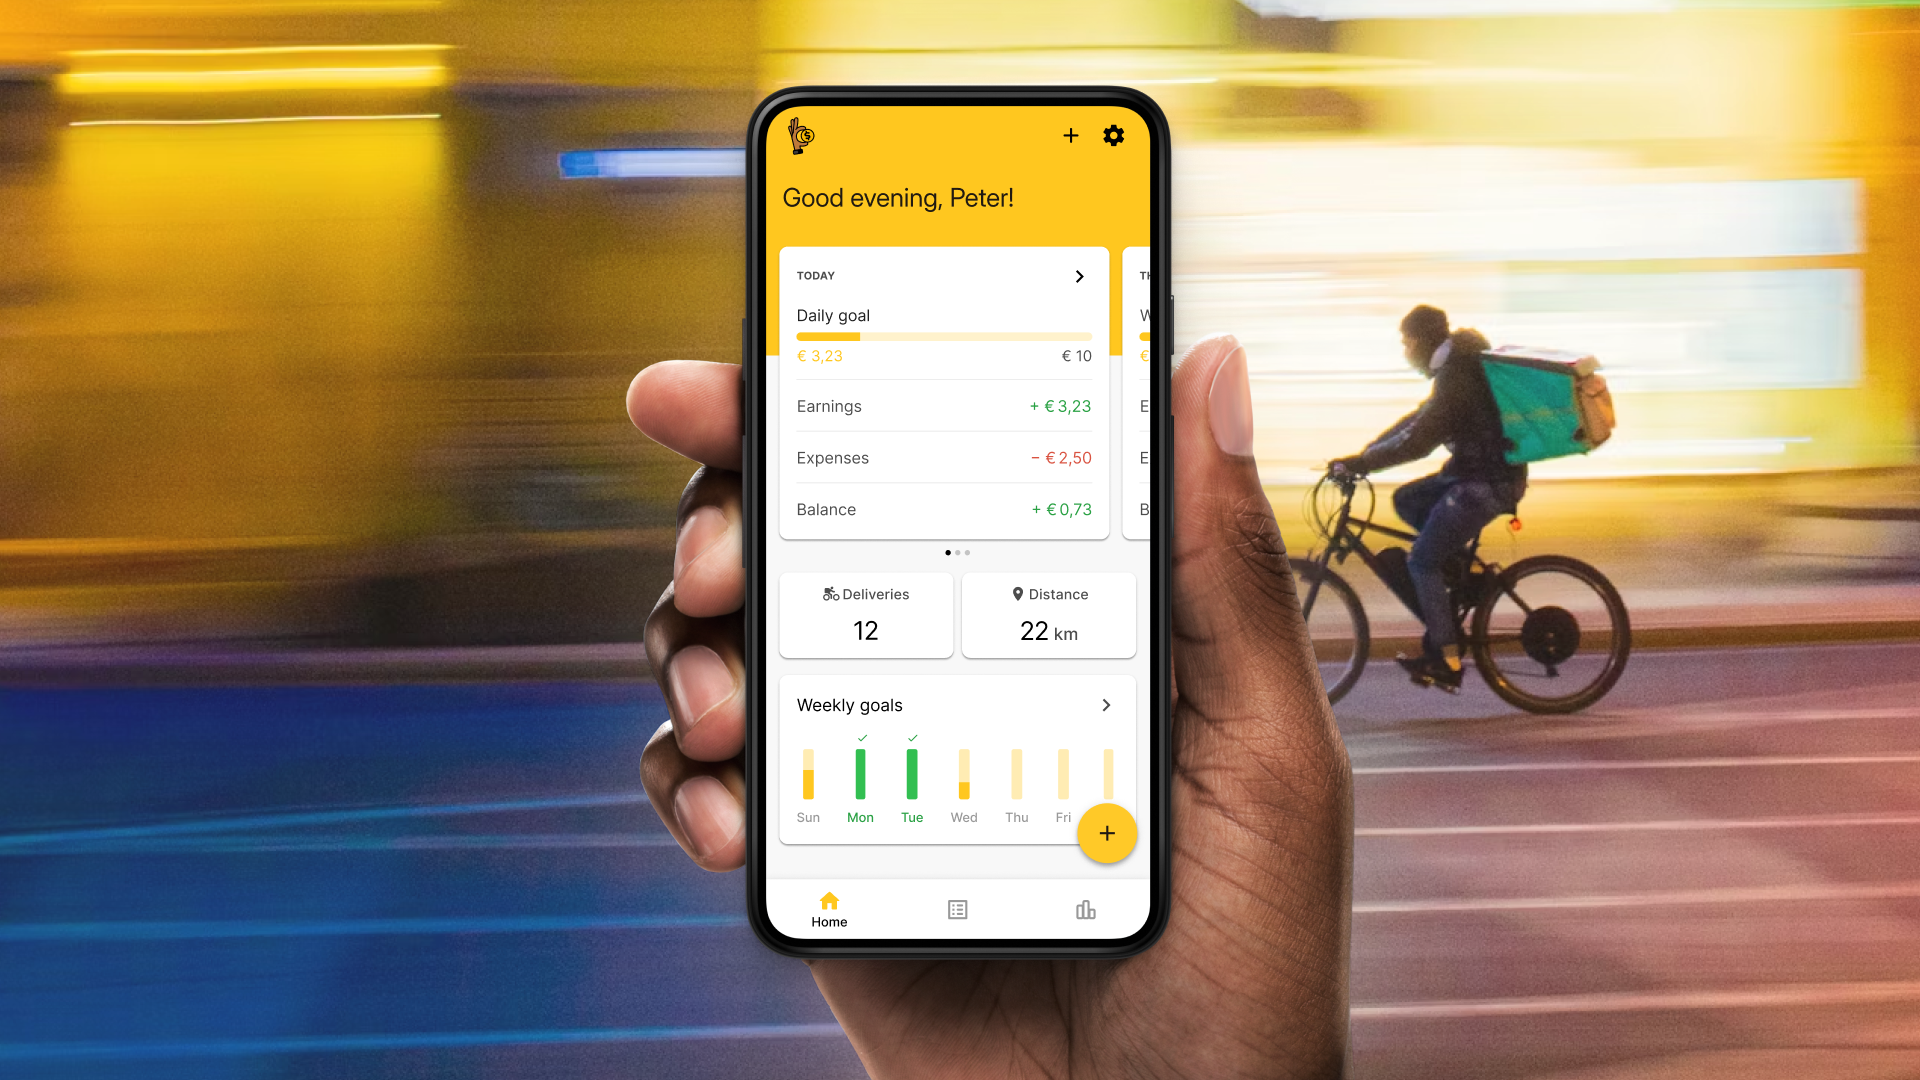
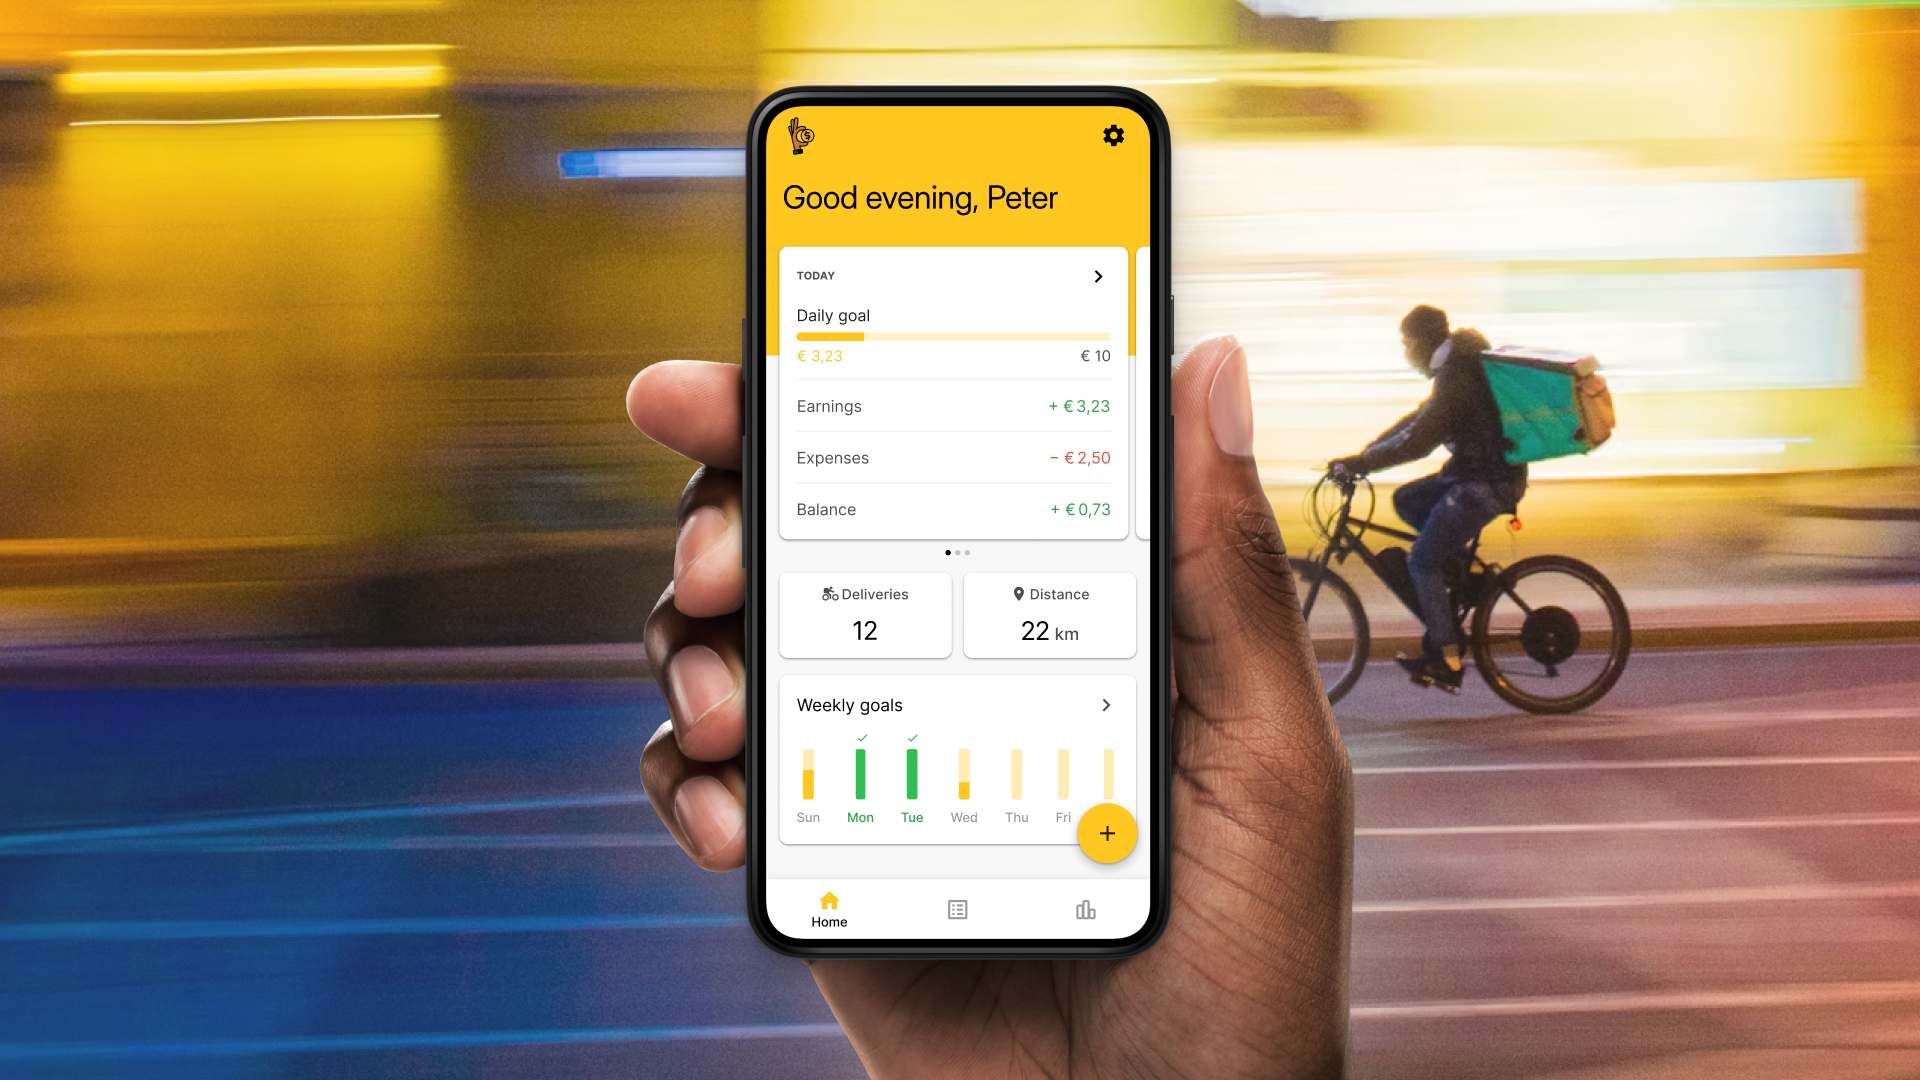
More improvements to Meu Corre

diff --git a/src/pages/meu-corre/index.md b/src/pages/meu-corre/index.md
@@ -6,7 +6,7 @@ lastUpdated: "2025-02"
 title: "Meu Corre"
 minibio: "Bootstrapping a personal financial management app for delivery workers."
 description: "\"My Gig\" is an app designed to support delivery workers in becoming financially aware during their often precarious daily work routine. By fostering financial awareness, the app not only supports individual organization but also serves as a powerful advocacy tool by generating unprecedented data to inform the fight for workers' rights in Brazil."
-color: '#F7B700'
+color: '#F2AA00'
 tags: ['design','product management','research','entrepreneur']
 team: "Igor Dalla Vecchia (researcher, geographer)・Henrique Nievinski (designer)・Caroline Jacobi (social media)・Gabriela Hermann (institutional relations)・Gabriela Pessoa (researcher)・Daniel Dias (developer)・Daniel Brito (data scientist)"
 cover: './cover.png'
@@ -18,15 +18,15 @@ liveLink: 'https://play.google.com/store/apps/details?id=br.com.meucorre'
  
 # Overview
 
-[Meu Corre](https://meucorre.com.br/) ("My Gig") is a social impact entrepreneurship project I co-founded with Igor Dalla Vecchia, a PhD candidate studying on the relationship of Brazilian courier workers with platforms. I was the responsible for everything concerning the product, from Discovery, Strategy and Research to UX/UI Design and major technical decisions.
+[Meu Corre](https://meucorre.com.br/) ("My Gig") is a social impact entrepreneurship project I co-founded with Igor Dalla Vecchia, a PhD candidate studying on the relationship of Brazilian courier workers with platforms. For over 4 years I led Product, contributing from Discovery, Strategy and Research to UX/UI Design and major technical decisions.
 
-We successfully got funded with more than R$ 200k (~€33k) by FAPERJ, CNPq, and Fundo Brasil, important Brazilian research institutions, and gained access to 2 years of mentorship and workshops on Business and Product Management. This allowed us to successfully launch the app on Google Play in April/2024 and we have been iterating on it with user feedbacks and planning on next steps.
+We successfully got funded with more than R$ 200k (~€33k) by FAPERJ, CNPq, and Fundo Brasil, important Brazilian research institutions, and gained access to 2 years of mentorship and workshops on Business and Product Management. This allowed us to successfully launch the app on Google Play in April/2024 and we have been iterating on it with user feedbacks while planning on next steps.
 
 <!-- The team behind Meu Corre consisted of various contributors with diverse expertise, including designers, developers, legal experts, and communication specialists. Special mention goes to delivery workers themselves, who participated in interviews and tests to help shape the app. -->
  
 ```grid|1 
 ![](./rafael.jpg "Rafael de Melo was one of the first delivery workers we got close to and was a key partner during the project. Photo by Caroline Jacobi.") 
-```   
+```
 
 Working on Meu Corre was one of those projects that really stuck with me. It pushed me to step out of my bubble, partner with so many different people, listen without judgment, and rethink what really impactful "solutions" actually look like. 
 
@@ -160,10 +160,10 @@ When building the foundations for typography, color palette and visual identity,
 
 <!-- algo de design system -->
 
+ 
+## Teaching the user on the go
 
-## Empty states 
-
-A special attention was given to the first experience of the user with the app. Instead of the regular carousel kind of onboarding, which we think ours users would most likely just skip, we gave extra though to the empty states. Some of our features, while common in the world of financial management apps, they can be very new to our audience.
+A special attention was given to the first experience of the user with the app. Instead of the regular carousel kind of onboarding, which we think ours users with their rushed lives would most likely just skip, we gave extra though to the empty states. Some of our features, while common in the world of financial management apps, they can be very new to our audience.
 
 <jumbo> 
     <img src="./emptystates.png"/>
@@ -208,12 +208,12 @@ From our learnings from research, we knew we had to be light on the metrics dash
     <img src="./metrics.png"/>
 </jumbo>
 
-
+<!-- 
 The final screens and features can be seen below in these promotional assets designed for our [Google Play page](https://play.google.com/store/apps/details?id=br.com.meucorre):
 
 <jumbo> 
     <img src="./googleplay.png"/>
-</jumbo>
+</jumbo> -->
 
 <!-- <jumbo>
     <img src="./googleplay1.png"/> 
@@ -223,13 +223,39 @@ The final screens and features can be seen below in these promotional assets des
 </jumbo> -->
 
 
+<!-- ## Hight impact/effort features 
 
-## The launch
+Apart from iterating on the core flows, after the launch we started seeking funding to implement some new features that were left out of the MVP implementation. These were features classified as of high impact but also high effort, so it was strategic the we'd leave it to a second round. -->
+ 
+<!-- <jumbo>
+    <img src="./newfeatures.png"/>
+</jumbo>  -->
+   
+
+## Hustle tracker  
+
+Another solution for automatizing the input of data into the app, the geotracking feature tracks the users' daily rides and automatically identifies the wasted idle time. This allows users to gain a clearer picture of how much time is spent actively working versus waiting, something that we heard is a big pain for them. On the platform side, the anonymized data we collect about their movement in the city provides invaluable insights for advocacy agents and policy makers.
+
+<jumbo>  
+    <img src="./hustletracker.png"/>
+</jumbo> 
+
+
+## Platforms integrations
+
+Automatically import rides' data from different delivery platforms. A highly requested feature since the first research, this feature proved to be way too costly for our MVP, but after the launch we'll seek funding to implement it.
+
+```grid|1
+![](./connect.png)
+```
+
+
+# The launch
 
 After a [way too] long development phase where we faced thousands of issues, technical challenges and scope cutting, this MVP was successfully launched to the general public with zero known bugs on April of 2024 with several live events we coordinated with partner institutions as well as influential workers on YouTube.
 
 ```grid|1
-![](./live.png "There were in total 4 live events we held on YouTube to promote the app.")
+![](./live.png)
 ```  
 
 I've also helped design our first social media posts, which is always out of my comfort zone, but necessary.
@@ -244,27 +270,8 @@ I've also helped design our first social media posts, which is always out of my 
 * Indicator Calculation: Automatic calculation of key indicators such as earnings per hour and per distance.
 * Data Export: The ability to download personal data in spreadsheet format.
 * Free Access: The app is and will remain free for all users. -->
+ 
 
-
-# Next Steps
-
-Since June/2024 I've stepped down from the team to focus on other projects, but I still provide counseling, discuss strategy and contribute on big decisions. Here are the main areas the project has been evolving since the launch and plans to continue in the near future:
-
-* **Iterating on core features**: Incorporate feedback from users who are using the tool in their real lives to make it more useful and efficient for the core Jobs-To-Be-Dones. 
-* **Data analysis and reports**: With more and more users recording their earnings and expenses in the app we'll start reaching statistical relevance so we can analyze that data and provide a vast diversity of reports and insights to different audiences, from the workers themselves to researchers and advocacy institutions.
-<!-- * **Doubledown on engagement**: There are lots of opportunities to help user build the positive habits of financial management into their daily lives, such as leveraging more push notifications, emails and nudges inside the app. -->
-<!-- * **Advanced features**: Invest in features of high impact and high effort that were left out of the MVP, such as Automatic Earnings Sync and Geolocation Tracking. -->
-* **New audiences & partnerships**: Stakeholders have shown interest in investing to expand the tool to new countries and even other gig workers such as Uber drivers. Initial research has shown that could be done without having to change too much the current experience.
-<!-- * **New partnerships**: Keep seeking additional funding and partnerships to sustain and develop the platform further. -->
-
-## Hight impact/effort features
-
-Apart from iterating on the core flows, after the launch we started seeking funding to implement some new features that were left out of the MVP implementation. These were features classified as of high impact but also high effort, so it was strategic the we'd leave it to a second round. Some of these are the Hustle Tracker and the Platform Autosync.
-
-
-<jumbo>
-    <img src="./newfeatures.png"/>
-</jumbo> 
 
  
 <!-- ## The advocacy flywheel
@@ -290,13 +297,33 @@ Here's a summary of the amazing results we've already achieved since the launch 
     }'>
 </results-banner>
 
-Also we've been collecting amazing testimonials of people who has been using the app and expressing how it impacted their lives:
 
-<quote author="Anonymous user" context="Google Play review">Super cool app. I use it daily and I have to admit that the app is amazing. It meets all my needs from my work.</quote> 
+## Reception
+
+We've been collecting amazing testimonials of people who has been using the app and expressing how it impacted their lives:
 
 <quote author="Rogerio Alcir" context="Received via social media" >I thank you for making available an app that helps us so much, what I used to do in spreadsheets, was way more complex, today I do my organization in the app. Thank you very much for helping.</quote> 
 
 <quote author="Luiz Henrique" context="Google Play review">Excellent app, it can control rides very well. Weeks, months, days... very good app without bugs. Excellent.</quote> 
+ 
+<quote author="Anonymous user" context="Google Play review">Super cool app. I use it daily and I have to admit that the app is amazing. It meets all my needs from my work.</quote> 
+
+The project has also been highlighted in various articles in the media, including important outlets in the country.
+
+<jumbo>  
+    <img src="./media.png"/>
+</jumbo>
+ 
+   
+<!-- # Next Steps
+
+Since June/2024 I've stepped down from the team to focus on other projects, but I still provide counseling, discuss strategy and contribute on big decisions. Here are the main areas the project has been evolving since the launch and plans to continue in the near future:
+
+* **Iterating on core features**: Incorporate feedback from users who are using the tool in their real lives to make it more useful and efficient for the core Jobs-To-Be-Dones. 
+* **Data analysis and reports**: With more and more users recording their earnings and expenses in the app we'll start reaching statistical relevance so we can analyze that data and provide a vast diversity of reports and insights to different audiences, from the workers themselves to researchers and advocacy institutions.
+* **Doubledown on engagement**: There are lots of opportunities to help user build the positive habits of financial management into their daily lives, such as leveraging more push notifications, emails and nudges inside the app.
+* **New audiences & partnerships**: Stakeholders have shown interest in investing to expand the tool to new countries and even other gig workers such as Uber drivers. Initial research has shown that could be done without having to change too much the current experience. -->
+
 
 
 # Learnings
